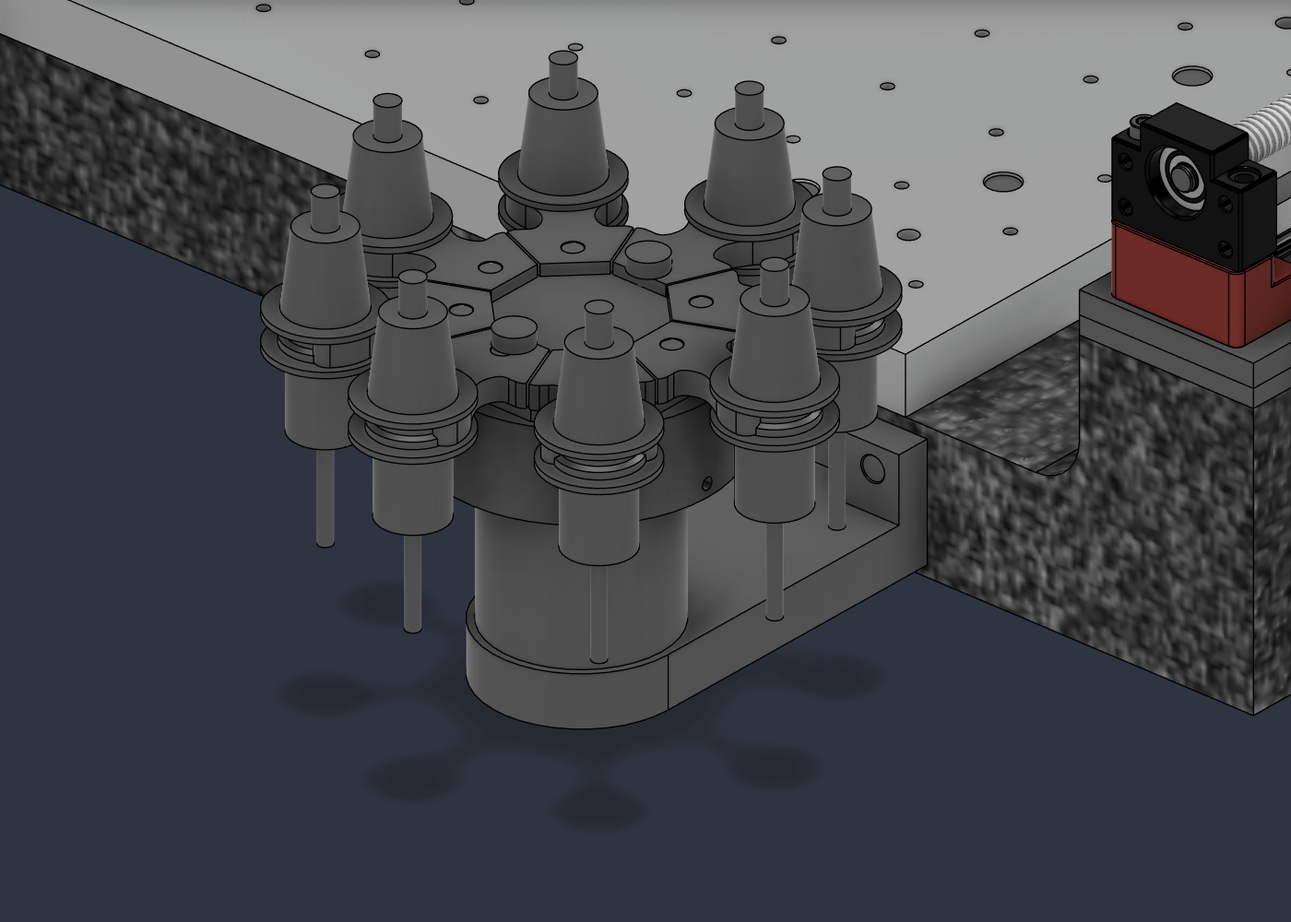
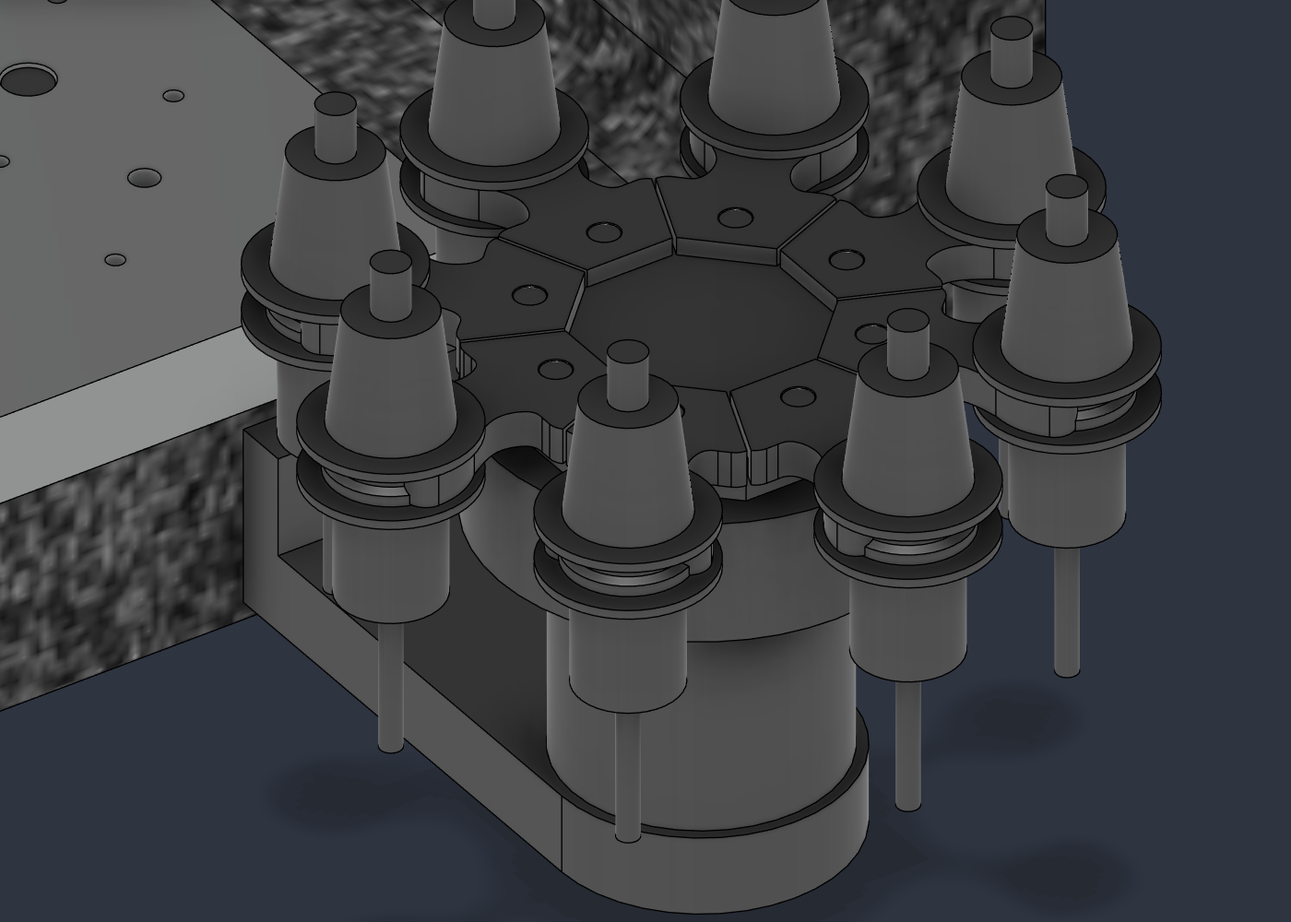
D-292/D-293: ATC mount faults fixed in the model (pocket through arm, Z0 screws dropped, flag recess, sensor tapped M12); leftover KFL004 M10s removed; sweep clean; handover

diff --git a/docs/atc-wheel.md b/docs/atc-wheel.md
@@ -1,10 +1,12 @@
-# ATC wheel (Phase 2): as modelled (23 Nov 2026, D-289, D-290)
+# ATC wheel (Phase 2): as modelled (23 Nov 2026, D-289 to D-293)
 
 ![ATC wheel on its one-piece mount at the front of the tub](atc-wheel.png)
 
-The ATC wheel is the top-level component `ATC Wheel (Phase 2)` in `Type_0_v3`. It is a horizontal umbrella wheel (D-138) in front of the tub, on the spindle's pickup line X 200 (D-253). Direct drive with a rigid joint (D-254), the owner's forks (D-255), 8-flat hub (D-275). **Since D-289 it stands on one machined 6082 mount**, 40 lower than before, on 2 x 6804 bearings (D-290). Design: `superpowers/specs/2026-11-23-atc-one-piece-mount-design.md`. Modelled 23 Nov 2026 (13th session), **not saved, and not buildable yet: see the faults below. Do not confirm.**
+![From below: motor pocket open through the arm, sensor below the web](atc-wheel-under.png)
 
-**Faults found after the clash check (23 Nov, 13th session, not yet fixed in the model):** (1) the motor cannot go in: the Ø62 pocket is closed below by the arm and above by the web, and cannot be milled; fix: cut the pocket down through the arm (Ø62, Z -10 to 81), motor fitted before the mount goes on the tub. (2) the 2 lower flange screws (Z 0) are buried under the arm; owner (D-291): "2 is plenty", so only the 2 at Z 30 stay; remove the Z 0 holes, counterbores, strip holes and cores. (3) the flag (Z 116 to 119, r 44) hits the web top (Z 119) as the hub turns, and the hub sits face to face on the web; fix proposed: recess the web top Z 115 to 119 from r 30 to 58, lower the bearing boss top 0.5 (r 16 to 30), relieve the hub underside 0.5 from r 11.5 to 17, so the hub bears on the inner ring only; then sweep hub, flag, forks and fork screws against every static body. (4) the LJ12A3 nut (17 across flats, to check) does not fit between the sensor (r 44) and the cup wall (r 37); fix to choose: tap the web M12, or a notch in the cup. Also: no room for a retaining ring under the lower bearing inside the Ø22 pilot, so only the M4 grub holds the wheel down; to solve.
+The ATC wheel is the top-level component `ATC Wheel (Phase 2)` in `Type_0_v3`. It is a horizontal umbrella wheel (D-138) in front of the tub, on the spindle's pickup line X 200 (D-253). Direct drive with a rigid joint (D-254), the owner's forks (D-255), 8-flat hub (D-275). **Since D-289 it stands on one machined 6082 mount**, 40 lower than before, on 2 x 6804 bearings (D-290). Design: `superpowers/specs/2026-11-23-atc-one-piece-mount-design.md`. Modelled 23 Nov 2026 (13th session); the 4 faults found after were fixed in the 14th session (D-291 to D-293). **Not saved: the owner saves.**
+
+**Faults found after the 13th session's clash check, fixed 23 Nov (14th session):** (1) motor could not go in: the Ø62 pocket is now cut down through the arm (Z -10 to 81); the motor (42 square, 59.4 across corners) goes in from below, before the mount goes on the tub. (2) the Z 0 flange screws were buried: holes and counterbores filled in the mount, strip holes and tub cores filled, 2 screws removed (D-291); 2 x M6 at Z 30 stay. (3) the flag hit the web: web top recessed Z 115 to 119 from r 30 to the edge, boss top Z 118.5 (r 16 to 30), hub underside relieved 0.5 from r 11.5 to 17 (D-293). (4) the sensor nut did not fit: web hole now Ø11 tapped M12 x 1, sensor screwed in from below, locked by an M4 x 8 nylon-tip grub from the web edge (D-292). Also found by the sweep: 2 M10 x 30 screws and 2 M10 nuts of the old KFL004 (in `Joint screws added (D-262)`) were still in the model, through the hub and forks: removed. **Still open:** no room for a retaining ring under the lower bearing inside the Ø22 pilot, so only the M4 grub holds the wheel down.
 
 ## Layout (world mm, Y = 0 at the rail front ends, tub front face Y -37)
 
@@ -14,13 +16,13 @@ The ATC wheel is the top-level component `ATC Wheel (Phase 2)` in `Type_0_v3`. I
 | Wheel axis | X 200, Y -174 |
 | Pockets | 8 at 45°, pitch radius 89; the pickup pocket opens towards +Y |
 | Forks (owner's model) | Z 126 to 136, V rib mid-plane **Z 131**; 1 x M4 x 12 countersunk each into the hub at r 41.7 |
-| Hub (`ATC Hub with spigot`) | 8 flats 101.6 across x 12, Z 119 to 131, 8 x M4 tapped (D-275), **with a Ø20 spigot Z 84 to 119** machined on; bored Ø5 from below (Z 84 to 107) for the motor shaft; M4 x 6 grub at Z 86.5 along +X |
+| Hub (`ATC Hub with spigot`) | 8 flats 101.6 across x 12, Z 119 to 131 (underside relieved to Z 119.5 from r 11.5 to 17, so it bears on the bearing inner ring only), 8 x M4 tapped (D-275), **with a Ø20 spigot Z 84 to 119** machined on; bored Ø5 from below (Z 84 to 107) for the motor shaft; M4 x 6 grub at Z 86.5 along +X |
 | Bearings | 2 x 6804-2RS (20 x 32 x 7) stand-ins, Z 89 to 96 and 112 to 119, spacer Ø32/26 x 16 between (D-290) |
-| Mount (one body, 6082) | Web Ø116, Z 81 to 119: Ø32 bearing bore Z 89 to 119, Ø22 motor pilot Z 81 to 89, 4 x Ø3.4 motor holes (31 square) with Ø6 counterbores down to Z 89, Ø5 grub access along +X at Z 86.5, Ø12 sensor hole at 202.5°, r 44. Cup Ø74, Z 12 to 81, pocket Ø62. Arm 80 wide (X 160 to 240), Z -10 to 12, rounded Ø80 at the axis, Ø16 cable hole. Flange X 160 to 240, Y -52 to -37, Z -10 to 40, 4 x Ø6.6 with Ø11 x 6.5 counterbores at X 172 and 228, Z 0 and 30; notch X 188 to 212 above Z 12. Box X 142 to 258, Y -232 to -37, Z -10 to 119; 766 cm³ (about 2.1 kg) |
+| Mount (one body, 6082) | Web Ø116, Z 81 to 119: Ø32 bearing bore Z 89 to 119, Ø22 motor pilot Z 81 to 89, 4 x Ø3.4 motor holes (31 square) with Ø6 counterbores down to Z 89, Ø5 grub access along +X at Z 86.5, sensor hole Ø11 tapped M12 x 1 at 202.5°, r 44, with an M4 tapped hole from the web edge at Z 98 (D-292). Top: boss Z 118.5 (r 16 to 30), recessed to Z 115 from r 30 to the edge (D-293). Cup Ø74, Z 12 to 81; pocket Ø62 through from Z -10 to 81. Arm 80 wide (X 160 to 240), Z -10 to 12, rounded Ø80 at the axis (9 wall round the pocket). Flange X 160 to 240, Y -52 to -37, Z -10 to 40, 2 x Ø6.6 with Ø11 x 6.5 counterbores at X 172 and 228, Z 30 (D-291); notch X 188 to 212 above Z 12. Box X 142 to 258, Y -232 to -37, Z -10 to 119; 675 cm³ (about 1.8 kg) |
 | Holders (stand-in ISO20-ER16) | Ø45 flanges above and below the fork, top Z 185, body to Z 90, tool Ø6 to Z 45 |
-| Drive | NEMA 17 closed loop (A03) face up under the web, Z 13 to 81; 4 x M3 x 12 from the top through the web (fit the motor before the bearings and hub) |
-| Index | LJ12A3 M12 (A09) through the web at 202.5°, r 44 (Z 64 to 114), outside the cup; flag under the hub (Z 116 to 119) |
-| Cast in (Phase 1) | steel strip **80 x 10 x 50**, X 160 to 240, Y -37 to -27, Z -10 to 40, 4 x M6 at X 172 and 228, Z 0 and 30; Ø6.6 cores Y -27 to -25 behind each hole. Old 25 wide strip and its 2 cores removed and filled. 4 x M6 x 20 hold the flange |
+| Drive | NEMA 17 closed loop (A03) face up under the web, Z 13 to 81; 4 x M3 x 12 from the top through the web. Order: motor up through the open pocket, M3 screws from the top, lower bearing, spacer, upper bearing, hub onto the shaft, grub through the access hole; then the mount onto the tub (2 x M6 from the front, 85 clear for the key between the flange and the cup) |
+| Index | LJ12A3 M12 (A09) screwed into the tapped web at 202.5°, r 44 (Z 64 to 114), 1 clear of the cup; M4 x 8 grub locks it (D-292). Flag under the hub (Z 116 to 119): 1 above the recess floor, 2 above the sensor face |
+| Cast in (Phase 1) | steel strip **80 x 10 x 50**, X 160 to 240, Y -37 to -27, Z -10 to 40, 2 x M6 at X 172 and 228, Z 30; Ø6.6 cores Y -27 to -25 behind each hole. Old 25 wide strip and its 2 cores removed and filled; Z 0 holes and cores filled (D-291). 2 x M6 x 20 hold the flange |
 
 Envelope: X 88 to 312, Y -286 to -25, Z -10 to 185. Parts from the tub face to the hub: mount, 2 bearings and spacer, hub (was 9 parts plus a shaft).
 
@@ -30,8 +32,14 @@ Envelope: X 88 to 312, Y -286 to -25, Z -10 to 185. Parts from the tub face to t
 3. Release, lift the nose to **Z 192** (holder top is Z 185). Index the wheel to the wanted pocket.
 4. Pick-up: nose down to Z 141 over the holder, clamp, slide +Y to Y -55, Z up.
 
-## Clash check (23 Nov 2026, after D-289): overlap in one pose only
-This check does not cover access, assembly or the turning hub; it missed faults 1 to 4 at the top.
+## Sweep check (23 Nov 2026, 14th session, after D-291 to D-293)
+Turning parts rotated about the wheel axis (X 200, Y -174) and intersected with every visible static body in X 75 to 325, Y -300 to -15, Z -15 to 200 (mount, bearings, spacer, motor, sensor, all ATC screws, tub, strip, steel plate, levelling pour, fixture plate, Y ball screw parts): hub, 8 forks, 8 fork screws, 8 holders and tools 0 to 45° in 3° steps (8-fold); flag and hub grub 0 to 360° in 5° steps. Threshold 0.1 mm³.
+- **Result: no hits** (after removing the 4 leftover KFL004 M10 parts, which the first run found).
+- Static against static: only screws in tapped holes (2 M6 in the strip, 4 M3 in the motor, M12 sensor thread, M4 sensor grub).
+- Not covered: the spindle against the wheel was not re-run (the wheel and holders did not move; 13th session result below stands).
+
+## Clash check (23 Nov 2026, 13th session, after D-289): overlap in one pose only
+This check did not cover access, assembly or the turning hub; it missed faults 1 to 4 at the top (now fixed).
 Copies of the 23 Z moving bodies near the spindle were moved by dX 421.8, dY -352 or -382, dZ -29 or +22 (approach, pickup, lifted at both Y) and intersected with every ATC body.
 - **Spindle against the wheel:** the only hits are 2 Z-side bodies with holder 1, the pocket that is empty at the drop-off and gripped at the pick-up (as on 22 Nov). Lifted at Y -85 and Y -55: no clash.
 - **Wheel turning (holders and tools only, not the hub and flag):** copies of all 16 holders and tools rotated 0 to 45° in 3° steps against the mount, the sensor, the motor and the flange screws: no clash.
@@ -46,7 +54,7 @@ Copies of the 23 Z moving bodies near the spindle were moved by dX 421.8, dY -35
 | Nose (141) to the fork tops (136) | 5 | sizes |
 | Tool tip (45) to the arm top (12) | 33 | sizes |
 | Tool length below the fork, max | about 114 (fork 131, arm 12, 5 clear); was about 98 | sizes |
-| Motor bottom (13) to the cup floor (12) | 1 | sizes |
+| Motor bottom (13) to the arm underside (-10), pocket open | 23 | sizes |
 | Motor screw counterbore to the bearing bore | 2.9 wall | sizes |
 
 ## What is and is not checked
@@ -54,7 +62,7 @@ Copies of the 23 Z moving bodies near the spindle were moved by dX 421.8, dY -35
 - **Motor runout (open):** the rigid joint on 2 bearings is over-constrained by the motor's own pilot-to-shaft runout. The bore and pilot are machined in one set-up; measure the real motor.
 - **Index error at the fork:** 4000 counts per turn (not confirmed) is 0.09°, about 0.14 mm at r 89. Check on the bench.
 - **Inertia:** use a low acceleration in the ATC macro.
-- **Motor length:** 68 body assumed. Motor bottom Z 13, 1 above the cup floor: a longer motor needs the arm pocketed.
+- **Motor length:** 68 body assumed. The pocket is now open through the arm, so a longer motor (to Z -10 and below) fits.
 - **Making it:** 129 tall against 175 nose-to-table on the Type 0, 68-deep pocket. Cut it lying down, or order from JLC (D-272, D-289).
 - **Arm stiffness:** 80 x 22 section, about 85 from flange to cup. Not calculated.
 - **Plate edge at the approach:** at Y -55 the tool (Ø10 max for ER16) clears the plate edge (Y -37); holder and collet nut stay above Z 70 there (body bottom Z 90).

diff --git a/docs/HANDOVER.md b/docs/HANDOVER.md
@@ -6,6 +6,16 @@
 
 > **Older entries and sections 1-4, 6 and 7 are in `docs/handover-archive.md`.** Read it only if a task needs the history. Keep the two newest entries here.
 
+## 00000000000000000000000000000000000000000000000000000000000000000000000000000000000000000000000. 23 Nov 2026 (14th session): ATC mount faults fixed (D-292, D-293), sweep clean
+- Owner Q&A: sensor held in a tapped web (D-292); flag fix as proposed (D-293). D-291 carried out.
+- Modelled in `Type_0_v3`, **not saved** (17 features, all healthy; the 35 broken timeline items are older): motor pocket Ø62 cut through the arm (Z -10 to 81), motor goes in from below; Z 0 flange holes, strip holes and tub cores filled, 2 M6 x 20 removed; web top recessed Z 115 to 119 (r 30 to edge), boss Z 118.5, hub underside relieved 0.5 (r 11.5 to 17); sensor hole Ø11 + cosmetic M12 x 1, M4 hole + cosmetic thread from the web edge, M4 x 8 grub body. Mount now 675 cm³.
+- **Sweep check found 4 leftover old parts:** 2 x M10 x 30 and 2 x M10 nuts of the old KFL004 (component `Joint screws added (D-262)`), through the hub and forks: removed. After that the sweep (hub, forks, screws, holders 0 to 45°; flag and hub grub 0 to 360°) against all static bodies nearby: no hits. Static overlaps only screws in tapped holes.
+- Docs: `atc-wheel.md` (faults marked fixed, table, sweep section, assembly order, new view `atc-wheel-under.png`, re-rendered `atc-wheel.png`), `decisions.md` D-291 note, D-292, D-293; BOM A06, A09; `cast_in_features.md` strip row.
+
+**Left:** owner saves `Type_0_v3` (the ATC can now be confirmed by the owner). Still open: retaining ring under the lower bearing (only the M4 grub holds the wheel down); measure the real motor (length, runout); arm stiffness hand calc; price A06 and A07 (curl); spindle-against-wheel check not re-run (wheel did not move); front slot against the ATC keep-out (task 24 item 6); the strip on the mould drawing.
+
+**Exact next step:** the owner saves `Type_0_v3`; then a session settles the front slot against the ATC keep-out (task 24 item 6), or solves the lower-bearing retention (a shoulder on the spigot under the lower bearing, or a circlip groove with a larger pilot).
+
 ## 00000000000000000000000000000000000000000000000000000000000000000000000000000000000000000000. 23 Nov 2026 (13th session): ATC one-piece mount, 40 lower (D-289, D-290), modelled
 - Owner: "the mount should be 1 continuous part; the ATC assembly can be made much more compact and shorter". Q&A: machined 6082, wheel about 40 lower, rigid motor joint kept, 2 bearings in the mount, mill first with JLC as fallback. Design approved: `docs/superpowers/specs/2026-11-23-atc-one-piece-mount-design.md`; plan in `docs/superpowers/plans/`.
 - **D-290:** bearings 2 x 6804 (the 6004 bore cut the motor screw holes).
@@ -15,15 +25,6 @@
 **Left:** do NOT confirm or save the ATC as final yet (saving the rest is fine). Fix the 4 faults in the model and re-check (hub, flag and forks swept against static bodies; assembly order). Then: measure the real motor (length, runout); arm stiffness hand calc; price A06 and A07 (curl); front slot against the ATC keep-out (task 24 item 6); the strip on the mould drawing.
 
 **Exact next step:** a session fixes the 4 ATC mount faults in `Type_0_v3` as listed at the top of `docs/atc-wheel.md` (pocket through the arm, drop the Z 0 screws per D-291, web recess and hub relief for the flag, sensor fixing), re-runs the checks including the turning hub, then the owner saves.
-
-## 0000000000000000000000000000000000000000000000000000000000000000000000000000000000000000000. 23 Nov 2026 (12th session): task 26, rear ATC not feasible; front kept (D-288)
-- Measured in `Type_0_v3` (bounding boxes, Y at the rear limit, not saved, nothing changed): spindle axis Y -88 to 297; tub floor top Z 45 to Y 653, no rear wall; carriage underside Z 169 (Z plate, Z rails, X roller angle, within X ±75 of the spindle), beam underside Z 205 over the full width, sweeping Y 60 to 565.
-- Result in `docs/rear-atc-reach.md`: a rear wheel inside the tub must have its holder tops at Z 165 or lower, which leaves about 25 of tool. With the wheel behind the pickup it also clashes at the pickup itself. With the wheel beside the pickup it sits under the beam's sweep and over the plate's back-right corner. A wheel past the tub end needs +367 of Y travel (rails, screws and tub about 370 longer). The Y motors and BK12 risers are not the limit.
-- **D-288 (owner):** rear dropped, front ATC kept, "very very elegant, integrate and not a kludge". Design-issues 11, 12 and 20 updated; task 26 done.
-
-**Left:** front slot against the ATC keep-out (the slot may be X ±107.5, the keep-out starts at X 88, so they overlap by 19.5); review the unconfirmed front ATC parts (D-250, D-253, D-255) against the owner's "elegant, integrated" requirement; the front strip goes on the mould drawing. Still open from the review: task 18 plate pull-down and pour, ATC 6804 bearing idea, the unpriced lines.
-
-**Exact next step:** the owner saves `Type_0_v3`; then a session settles the front slot (task 24 item 6) together with the ATC keep-out, aiming for an integrated front ATC.
 
 ## 5. Owner's rules
 - **Use the Q&A tool heavily** before decisions. Ask, don't assume. The owner pushes back on design details: take it seriously and check mouldability and casting orientation (e.g. D-113).

diff --git a/docs/bom.md b/docs/bom.md
@@ -111,10 +111,10 @@ Lines still TO PRICE: see the list above.
 | A01 | 2 | ISO20 tool forks (3D printed) | 8 pcs | Owner's fork model (22 Nov 2026), 10 thick, V rib for the 60 deg holder groove; tabs tapered to 45 deg so 8 fit at r 89 (D-255); 1 x M4 x 12 countersunk each into the hub; fork hole opened to 4.5 with an 8.5 countersink (D-275) | [product]() | Owner sourcing (3D printed) | 0.00 | D-58. Print in PETG/ASA/PA for stiffness and heat. Check grip force and holder fit before Stage 2 |
 | A03 | 2 | Small closed-loop stepper + driver (48 V) | 1 set | Turns the ATC wheel directly (no reduction, D-254): face up under the mount web on the wheel axis, Z 13 to 81; hub spigot bored 5 and grub-screwed onto its 5 mm shaft (D-289) | [product](https://www.omc-stepperonline.com/1-axis-closed-loop-stepper-cnc-kit-80ncm-113-29oz-in-nema-17-motor-driver-1-cl42t-s08-v41) | £39.43 (VAT?) + £8.34 DE warehouse (StepperOnline) | 47.77 | 1-CL42T-S08-V41: NEMA 17 0.8 Nm + CL42T 24-48 V. 5 mm shaft |
 | A05 | 2 | Tool length setter (wired switch) | 1 pcs | Place not set: the old rack carrier (D-19) is gone with the umbrella wheel (D-250) | [product](https://www.aliexpress.com/item/1005012101891449.html) | £17.89 inc VAT, free shipping (AliExpress) | 17.89 | N96R, 24 V, NC |
-| A06 | 2 | ATC hub + one-piece mount | 1 lot | 6082: hub 12 thick with 8 flats 101.6 across (corners Ø110), 8 x M4 tapped (D-275), with a Ø20 spigot Z 84 to 119 machined on (bore 5, M4 grub); one-piece mount (flange, arm, cup, web) about 116 x 195 x 129, 766 cm³, cut on the Type 0 or by JLC (D-289, D-290). Posts, top plate and PETG bracket dropped | [product](https://www.aluminiumwarehouse.co.uk/products/8-mm-6082-aluminium-plate) | 2 × 200 × 200 × 8 (£15.55 each) + 150 × 120 × 10 (£15.00) ex VAT (Aluminium Warehouse) | 55.32 | D-253 to D-260 (22 Nov 2026): stock list changed again; the price is for the old 2 x 200 x 200 x 8 + 150 x 120 x 10 and needs re-pricing: D-289 needs a 6082 block for the mount (about 120 x 200 x 135) and 12 plate for the hub. Screws not priced: 4 x M6 x 20 (mount to the strip), 4 x M3 x 12 (motor to web), 8 x M4 x 12 countersunk (forks), 1 x M4 x 6 grub (spigot to motor) |
+| A06 | 2 | ATC hub + one-piece mount | 1 lot | 6082: hub 12 thick with 8 flats 101.6 across (corners Ø110), 8 x M4 tapped (D-275), with a Ø20 spigot Z 84 to 119 machined on (bore 5, M4 grub); one-piece mount (flange, arm, cup, web) about 116 x 195 x 129, 675 cm³, motor pocket through, web tapped M12 x 1 and M4 for the sensor, top recessed for the flag, cut on the Type 0 or by JLC (D-289, D-290, D-292, D-293). Posts, top plate and PETG bracket dropped | [product](https://www.aluminiumwarehouse.co.uk/products/8-mm-6082-aluminium-plate) | 2 × 200 × 200 × 8 (£15.55 each) + 150 × 120 × 10 (£15.00) ex VAT (Aluminium Warehouse) | 55.32 | D-253 to D-260 (22 Nov 2026): stock list changed again; the price is for the old 2 x 200 x 200 x 8 + 150 x 120 x 10 and needs re-pricing: D-289 needs a 6082 block for the mount (about 120 x 200 x 135) and 12 plate for the hub. Screws not priced: 4 x M6 x 20 (mount to the strip), 4 x M3 x 12 (motor to web), 8 x M4 x 12 countersunk (forks), 1 x M4 x 6 grub (spigot to motor) |
 | A07 | 2 | ATC wheel bearings | 1 set | 2 x 6804-2RS (20 x 32 x 7) in the mount web, Z 89 to 96 and 112 to 119, spacer 16 between; the shaft is now the hub spigot (D-289, D-290). Rigid joint to the motor kept (D-254) | [product](https://www.aliexpress.com/item/1005007995333691.html) | Shaft £11.99 + £2.25 shipping; bearings £7.50 for 2 (AliExpress, logged in) | 21.74 | Price is for the old shaft + KFL004 and needs re-pricing for 2 x 6804-2RS (D-290); the shaft is no longer bought |
 | A08 | 2 | ATC wheel drive reduction | 0 set | Dropped (D-254): the wheel is direct driven | [product](https://www.aliexpress.com/item/32650791423.html) | 20T £0.99 + 60T £3.99 + £3.35 shipping + belt 222 mm £0.99 (AliExpress) | 0.00 | D-254 (22 Nov 2026): not bought. Was GT2 20T/60T and belt |
-| A09 | 2 | ATC wheel index sensor | 1 set | Inductive sensor M8/M12 PNP + home flag | [product](https://www.aliexpress.com/item/1005010648075147.html) | Added to E10 order: £1.54 + £0.88 extra shipping | 2.42 | Bought with E10 (5 sensors) |
+| A09 | 2 | ATC wheel index sensor | 1 set | LJ12A3 M12 PNP (from E10) screwed into the mount web (tapped M12 x 1), locked by an M4 x 8 nylon-tip grub; M5 screw head on the hub as flag (D-292) | [product](https://www.aliexpress.com/item/1005010648075147.html) | Added to E10 order: £1.54 + £0.88 extra shipping | 2.42 | Bought with E10 (5 sensors) |
 | P01 | 2 | Filter / regulator / dryer | 1 pcs |  | [product](https://www.aliexpress.com/item/1005002589702135.html) | £6.50 inc VAT (AliExpress) | 6.50 | AW2000-02 filter-regulator. No dryer |
 | P02 | 2 | 24 V solenoid valves | 4 pcs | Tool release / taper clean / air blast | [product](https://www.aliexpress.com/item/1005012294513653.html) | £9.49 inc VAT each, free shipping (AliExpress) | 37.96 | 3V1-06 24 V 3/2 NC. Qty 4 (3 + 1 for mist unit) |
 | P03 | 2 | Air pressure switch | 1 pcs | About 5.5 bar trip point | [product](https://www.aliexpress.com/item/1005013285557375.html) | £5.17 (VAT?) + £3.79 shipping (AliExpress) | 8.96 | QPM11-NO-02. NO contact |

diff --git a/docs/decisions.md b/docs/decisions.md
@@ -292,4 +292,6 @@
 | D-288 | **The rear ATC is dropped; the front wheel (D-250 to D-255) stays. The owner's requirement: the front ATC must be very elegant and integrated, not a kludge.** Why (`docs/rear-atc-reach.md`): inside the tub the carriage underside is Z 169 (beam Z 205, sweeping Y 60 to 565) and the floor is Z 45, so a rear wheel leaves about 25 of tool below the holder; a wheel past the tub end needs about +367 of Y travel (longer rails, screws and tub). Ends the D-274 study: the D-251/D-253 front strip and the X 88 to 312 keep-out apply again | Owner, 23 Nov 2026 (Q&A): "keep front but it needs to be very very elegant, integrate and not a kludge" |
 | D-289 | **ATC mount redesign (Phase 2, strip Phase 1): one continuous machined 6082 part from the tub face to the bearing seat and motor face, made on the mill before Phase 2; the wheel 40 lower (fork plane Z 171 to Z 131); the rigid motor joint of D-254 kept (one bearing above, motor bearings below, no coupling).** Replaces the PETG bracket, posts and top plate (D-253, D-259, D-260). **Proposed by Claude, owner to confirm:** everything in `docs/superpowers/specs/2026-11-23-atc-one-piece-mount-design.md` (hub and shaft one part, 2 x 6004 in one bore with the motor pilot (same set-up), grub window with a radial access hole, cup round the motor, low solid arm (top Z 12) and a flange notch so tool length grows to about 114, 80 x 10 x 50 strip with 4 x M6 replacing the D-251/D-253 strip, nose at pickup Z 141, lift Z 192). Modelled 23 Nov (13th session), not saved; as built in `docs/atc-wheel.md` | Owner, 23 Nov 2026: "the mount should be 1 continuous part, the ATC assemble can be made much more compact and shorter"; Q&A: "Machined 6082", "Lower about 40", "Keep rigid joint"; then (single 1204 found to load the motor bearing about 5.6 times a fork push) "2 x 6004 pair, rigid", "Mill first, JLC fallback" |
 | D-290 | **ATC bearings: 2 x 6804-2RS (20 x 32 x 7), not 2 x 6004.** The 6004 bore (Ø42, r 21) cut the 4 NEMA 17 screw holes (r 21.9). The 6804 bore (r 16) leaves a 2.9 wall to the M3 counterbores. Bearings Z 89 to 96 and 112 to 119, 23 apart, spacer 16. Also as modelled (Claude, owner to confirm): flange screws 4 x M6 x 20 (the flange is 15 thick), motor screws 4 x M3 x 12 from the top through the web, hub spigot Z 84 to 119 (clears the motor boss), grub M4 x 6 at Z 86.5. Overlap check in one pose clean, but 4 faults found afterwards (motor cannot be fitted, lower screws buried, flag hits the web, sensor nut); see `docs/atc-wheel.md`. BOM A03, A06, A07 text updated; A06 and A07 need re-pricing | Owner, 23 Nov 2026 (Q&A): "2 x 6804" |
-| D-291 | **ATC mount to tub: 2 x M6 is enough. The 2 lower flange screws (Z 0), buried under the arm, are dropped; the 2 at X 172 and 228, Z 30 stay.** The 80 x 10 x 50 strip stays, with 2 tapped holes and 2 cores (Z 30). Claude read "2 is plenty" as this; owner to confirm. The model still has 4 holes: to fix | Owner, 23 Nov 2026 (Q&A): "2 is plenty" |
+| D-291 | **ATC mount to tub: 2 x M6 is enough. The 2 lower flange screws (Z 0), buried under the arm, are dropped; the 2 at X 172 and 228, Z 30 stay.** The 80 x 10 x 50 strip stays, with 2 tapped holes and 2 cores (Z 30). Claude read "2 is plenty" as this; owner to confirm. Done in the model 23 Nov (14th session): Z 0 holes, strip holes and cores filled, 2 screws removed | Owner, 23 Nov 2026 (Q&A): "2 is plenty" |
+| D-292 | **ATC index sensor held in a tapped web: the Ø12 hole is now Ø11, tapped M12 x 1 through the web (Z 81 to 115); the LJ12A3 screws in from below to set its gap and is locked by an M4 x 8 nylon-tip grub from the web's outer edge (at 202.5°, Z 98).** No nut (its 17 AF did not fit between the sensor and the cup wall). Also as modelled: the motor pocket Ø62 is cut down through the arm (Z -10 to 81) so the motor goes in from below. | Owner, 23 Nov 2026 (Q&A): "Tap web M12" |
+| D-293 | **ATC flag clearance: web top recessed Z 115 to 119 from r 30 to the edge (r 58); bearing boss top 0.5 lower (Z 118.5, r 16 to 30); hub underside relieved 0.5 from r 11.5 to 17.** The hub bears on the upper bearing's inner ring only; flag (Z 116 to 119) 1 above the recess floor, 2 above the sensor face (LJ12A3-4 senses at 4). | Owner, 23 Nov 2026 (Q&A): "Yes, as proposed" |

diff --git a/docs/handover-archive.md b/docs/handover-archive.md
@@ -2,6 +2,15 @@
 
 Older entries moved unchanged from `docs/HANDOVER.md` on 18 Nov 2026, newest first. Much of this describes superseded designs: `docs/decisions.md` and the current `docs/HANDOVER.md` take priority.
 
+## 0000000000000000000000000000000000000000000000000000000000000000000000000000000000000000000. 23 Nov 2026 (12th session): task 26, rear ATC not feasible; front kept (D-288)
+- Measured in `Type_0_v3` (bounding boxes, Y at the rear limit, not saved, nothing changed): spindle axis Y -88 to 297; tub floor top Z 45 to Y 653, no rear wall; carriage underside Z 169 (Z plate, Z rails, X roller angle, within X ±75 of the spindle), beam underside Z 205 over the full width, sweeping Y 60 to 565.
+- Result in `docs/rear-atc-reach.md`: a rear wheel inside the tub must have its holder tops at Z 165 or lower, which leaves about 25 of tool. With the wheel behind the pickup it also clashes at the pickup itself. With the wheel beside the pickup it sits under the beam's sweep and over the plate's back-right corner. A wheel past the tub end needs +367 of Y travel (rails, screws and tub about 370 longer). The Y motors and BK12 risers are not the limit.
+- **D-288 (owner):** rear dropped, front ATC kept, "very very elegant, integrate and not a kludge". Design-issues 11, 12 and 20 updated; task 26 done.
+
+**Left:** front slot against the ATC keep-out (the slot may be X ±107.5, the keep-out starts at X 88, so they overlap by 19.5); review the unconfirmed front ATC parts (D-250, D-253, D-255) against the owner's "elegant, integrated" requirement; the front strip goes on the mould drawing. Still open from the review: task 18 plate pull-down and pour, ATC 6804 bearing idea, the unpriced lines.
+
+**Exact next step:** the owner saves `Type_0_v3`; then a session settles the front slot (task 24 item 6) together with the ATC keep-out, aiming for an integrated front ATC.
+
 ## 000000000000000000000000000000000000000000000000000000000000000000000000000000000000000000. 23 Nov 2026 (11th session): Gemini review checked; docs fixed (D-284 to D-287)
 - The owner pasted a review of the repo by Gemini (8 points, at commit `db206e3`). Checked each against the repo. Point 2 (roller steel) was already done in D-281 to D-283; point 4 (ATC shaft on one bearing) is the risk the owner accepted in D-254; the rest hold.
 - **D-284:** Y2 on the 7I76EU with no pin moved: step/dir 3 = Y2, ATC to channel 4 on TB3 (pins to check), Y2 home IN15, Y2 alarm IN16 (TB5). `electrical.md` updated (4 CL57T drives); `io-list.md` marked out of date.

diff --git a/docs/tasks/README.md b/docs/tasks/README.md
@@ -24,6 +24,7 @@ The project is split into small tasks so each can be done in a fresh session wit
 - 23 Nov, 11th: Gemini review of the repo checked. Docs fixed: Y2 pins (D-284), LinuxCNC Y2 change list in task 19 (D-285), S04 note (D-286), PETG commissioning-part print settings (D-287), stale README and summary lines. **Open from the review:** task 18 must say how the wall-top plates are pulled onto the jack screws and how the 8 mm gap is poured without air; the ATC lower bearing idea (6804 in the motor plate) for Phase 2.
 - 23 Nov, 12th: task 26 done. Rear ATC dropped (D-288, `docs/rear-atc-reach.md`): under the gantry only 124 from floor (Z 45) to carriage (Z 169); past the tub end it needs +367 Y travel. Front ATC kept; owner: "very very elegant, integrate and not a kludge". Next: front slot against the ATC keep-out (X ±107.5 against X 88).
 - 23 Nov, 13th: ATC one-piece mount (D-289): machined 6082 mount, wheel 40 lower, rigid joint kept. Approved and modelled (D-290: 2 x 6804); strip 80 wide with 4 x M6 in the tub; not saved; **4 faults found after (motor cannot be fitted, lower screws buried (D-291: drop them), flag hits the web, sensor nut): fix before saving, see `docs/atc-wheel.md`.**
+- 23 Nov, 14th: the 4 ATC mount faults fixed in the model (D-291 carried out, D-292 sensor in tapped web, D-293 flag recess); 4 leftover KFL004 M10 parts removed; sweep check clean. Not saved. Open: lower bearing retention, motor measure, front slot (task 24 item 6).
 - Background, only if a task needs it: `docs/HANDOVER.md`.
 
 ## Tasks

diff --git a/cad/v2/out/assembly/cast_in_features.md b/cad/v2/out/assembly/cast_in_features.md
@@ -12,7 +12,7 @@ The moving-gantry design has one casting, the EG tub. Coordinates are from `Type
 | Outer-face strip +X, Y 520 | 25 x 10 flat bar, 58 long, flush in the outer face; 4 x M6 tapped through at Z 56.5, 71.5, 86.5, 101.5 | X 380 to 390, Y 507.5 to 532.5, Z 49 to 107 | D-200, D-258, D-271 |
 | Outer-face strip -X, Y 520 | 25 x 10, 28 long; 2 x M6 at Z 86.5, 101.5 | X -390 to -380, Y 507.5 to 532.5, Z 79 to 107 | D-200, D-258, D-271 |
 | Outer-face strip +X, Y 220 | 25 x 10, 30 long; 2 x M6 at Z 56.5, 71.5 | X 380 to 390, Y 207.5 to 232.5, Z 49 to 79 | D-200, D-258, D-271 |
-| ATC strip, floor front face (Phase 2 mount) | 80 x 10, 50 long; 2 x M6 at X 172 and 228, Z 30, Ø6.6 cores 2 deep behind (Y -27 to -25) (D-291; the model still has the Z 0 pair too) | X 160 to 240, Y -37 to -27, Z -10 to 40. On the mould drawing (D-288) | D-251, D-288, D-289, D-291 |
+| ATC strip, floor front face (Phase 2 mount) | 80 x 10, 50 long; 2 x M6 at X 172 and 228, Z 30, Ø6.6 cores 2 deep behind (Y -27 to -25) (D-291; Z 0 pair removed from the model) | X 160 to 240, Y -37 to -27, Z -10 to 40. On the mould drawing (D-288) | D-251, D-288, D-289, D-291 |
 | Fixture plate inserts | 8 x M8 x 24 DIN 6334 A2 hex connector nuts, flush with the floor top, M8 x 8 ISO 4017 A2 back plugs | Z 21 to 45; (X ±125, Y 28), (X ±175, Y 78), (X ±175, Y 178), (X ±125, Y 228) | D-235 to D-241 |
 
 Not cast in, but on the wall tops after the cure:
